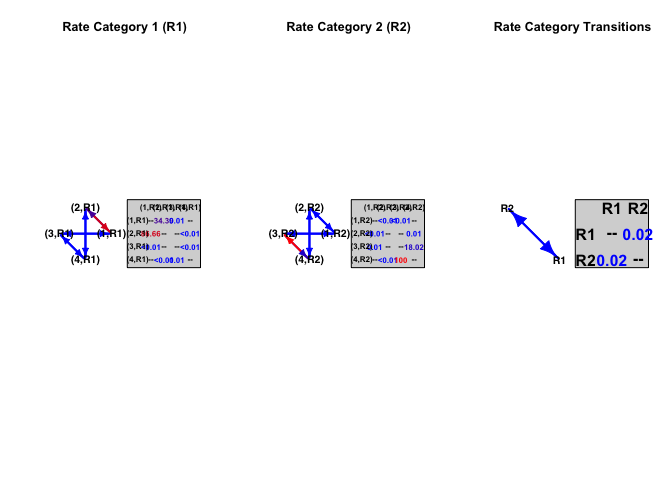
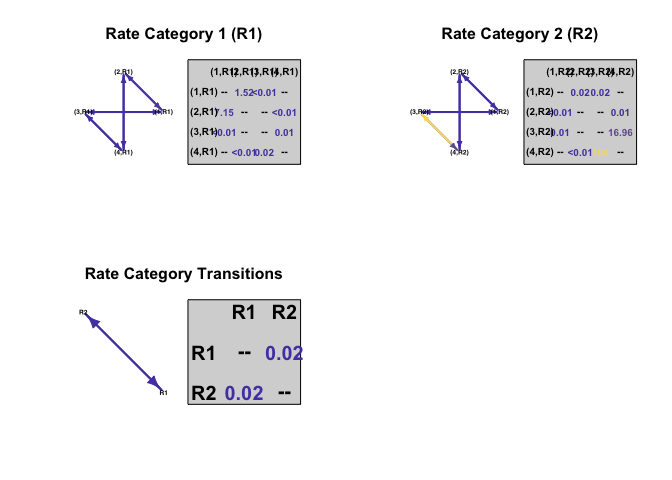
Updating markdown

diff --git a/State_transitions_analysis.md b/State_transitions_analysis.md
@@ -1,7 +1,7 @@
 State transitions analysis
 ================
 Tia Harrison
-2022-08-24
+2022-08-31
 
 ## Overall setup
 
@@ -92,6 +92,9 @@ nonmutualist diploid 2 = nonmutualist polyploid 3 = mutualist diploid 4
 = mutualist polyploid
 
 ``` r
+# Set seed for reproducibility 
+set.seed(35)
+
 # Simple model with two traits and no hidden states 
 MK_sub_simple<- corHMM(phy=sub_tree, data=ploidy_sub2, rate.cat=1)
 ```
@@ -110,14 +113,14 @@ MK_sub_simple
     ## 
     ## Fit
     ##       -lnL      AIC     AICc Rate.cat ntax
-    ##  -448.2159 912.4317 912.6036        1  847
+    ##  -448.2159 912.4318 912.6037        1  847
     ## 
     ## Rates
     ##             (1,R1)      (2,R1)      (3,R1)      (4,R1)
-    ## (1,R1)          NA 0.018953919 0.005085119          NA
-    ## (2,R1) 0.034394196          NA          NA 0.004525548
-    ## (3,R1) 0.002372178          NA          NA 0.023940509
-    ## (4,R1)          NA 0.000000001 0.077784125          NA
+    ## (1,R1)          NA 0.018962815 0.005080092          NA
+    ## (2,R1) 0.034427771          NA          NA 0.004534031
+    ## (3,R1) 0.002371503          NA          NA 0.023961636
+    ## (4,R1)          NA 0.000000001 0.077895873          NA
     ## 
     ## Arrived at a reliable solution
 
@@ -157,28 +160,28 @@ MK_sub_hidden
 
     ## 
     ## Fit
-    ##       -lnL      AIC     AICc Rate.cat ntax
-    ##  -392.8729 821.7458 822.5719        2  847
+    ##       -lnL     AIC     AICc Rate.cat ntax
+    ##  -392.9535 821.907 822.7331        2  847
     ## 
     ## Rates
-    ##             (1,R1)      (2,R1)     (3,R1)      (4,R1)      (1,R2)      (2,R2)
-    ## (1,R1)          NA 1.968725819 0.01042501          NA 0.022396033          NA
-    ## (2,R1) 4.415833806          NA         NA 0.000000001          NA 0.022396033
-    ## (3,R1) 0.000000001          NA         NA 0.005563115          NA          NA
-    ## (4,R1)          NA 0.000000001 0.01574161          NA          NA          NA
-    ## (1,R2) 0.013566087          NA         NA          NA          NA 0.000000001
-    ## (2,R2)          NA 0.013566087         NA          NA 0.002600326          NA
-    ## (3,R2)          NA          NA 0.01356609          NA 0.005315245          NA
-    ## (4,R2)          NA          NA         NA 0.013566087          NA 0.003124342
+    ##             (1,R1)      (2,R1)      (3,R1)      (4,R1)      (1,R2)      (2,R2)
+    ## (1,R1)          NA 1.524948697 0.000000001          NA 0.016044246          NA
+    ## (2,R1) 7.151505985          NA          NA 0.000000001          NA 0.016044246
+    ## (3,R1) 0.000000001          NA          NA 0.005544238          NA          NA
+    ## (4,R1)          NA 0.000000001 0.022551333          NA          NA          NA
+    ## (1,R2) 0.020499301          NA          NA          NA          NA 0.016143298
+    ## (2,R2)          NA 0.020499301          NA          NA 0.004726804          NA
+    ## (3,R2)          NA          NA 0.020499301          NA 0.005612824          NA
+    ## (4,R2)          NA          NA          NA 0.020499301          NA 0.000000001
     ##              (3,R2)       (4,R2)
     ## (1,R1)           NA           NA
     ## (2,R1)           NA           NA
-    ## (3,R1)  0.022396033           NA
-    ## (4,R1)           NA  0.022396033
-    ## (1,R2)  0.000000001           NA
-    ## (2,R2)           NA  0.007984013
-    ## (3,R2)           NA 11.436896724
-    ## (4,R2) 67.938307487           NA
+    ## (3,R1)   0.01604425           NA
+    ## (4,R1)           NA  0.016044246
+    ## (1,R2)   0.01727692           NA
+    ## (2,R2)           NA  0.007173617
+    ## (3,R2)           NA 16.958903239
+    ## (4,R2) 100.00000000           NA
     ## 
     ## Arrived at a reliable solution
 
@@ -201,18 +204,9 @@ rate_dataR2<-round(rate_dataR2, 5) # Round values
 rate_dataR2<-t(rate_dataR2) # Transpose matrix 
 
 # Manipulate matrix for arrow line width plotting 
-R1_thick<-1+rate_dataR1 
-R2_thick<-1+rate_dataR2
-R1_thick
-```
+R1_thick<-rate_dataR1/10 
+R2_thick<-rate_dataR2/10
 
-    ##         (1,R1)  (2,R1)  (3,R1)  (4,R1)
-    ## (1,R1)      NA 5.41583 1.00000      NA
-    ## (2,R1) 2.96873      NA      NA 1.00000
-    ## (3,R1) 1.01043      NA      NA 1.01574
-    ## (4,R1)      NA 1.00000 1.00556      NA
-
-``` r
 # Set up plot save 
 pdf("Figure_R1.pdf")
 
@@ -244,6 +238,8 @@ dev.off()
 
     ## quartz_off_screen 
     ##                 2
+
+![](State_transitions_analysis_files/figure-gfm/hidden%20model-1.png)<!-- -->
 
 ## Visualization of transitions
 
